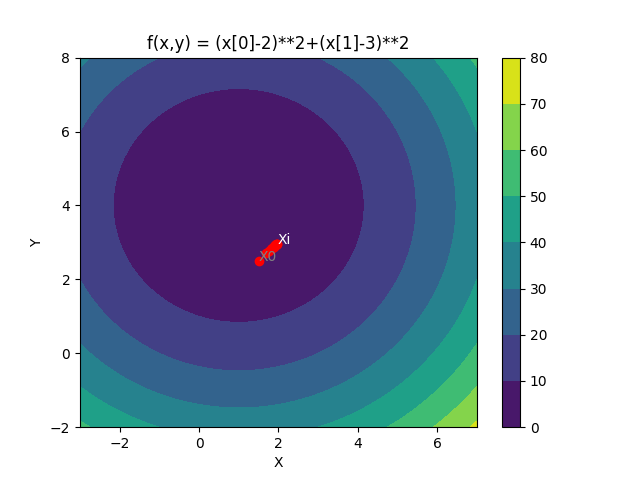
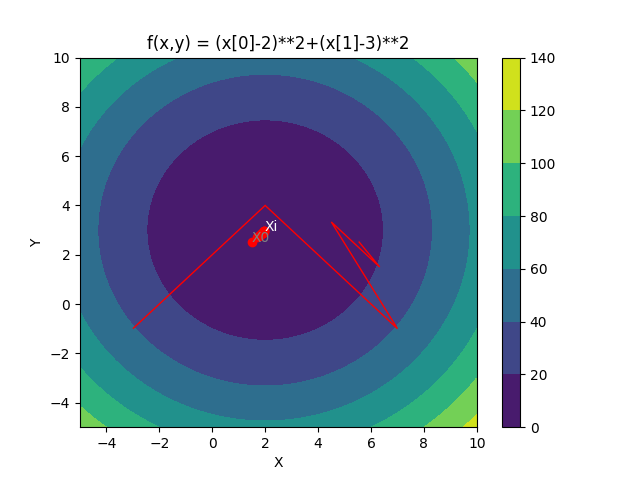
added shapes to chart

diff --git a/main.py b/main.py
@@ -53,12 +53,20 @@ def assign_values_in_point(f_variables, x0):
 
 def rysujWykres(punkty):
 
-    x_interval = (1, 1)
-    y_interval = (1, 1)
-
-    x_points = np.linspace(-3, 7, 100)
-    y_points = np.linspace(-2, 8, 100)
+    x_points = np.linspace(-5, 10, 100)
+    y_points = np.linspace(-5, 10, 100)
     X, Y = np.meshgrid(x_points, y_points)
+
+    if values["-STOP-"][0] == "Koło":
+        circle = plt.Circle((2, 3), 5, color="r", fill=False)
+        plt.gca().add_patch(circle)
+    if values["-STOP-"][0] == "Kwadrat":
+        rectangle = plt.Rectangle((-3, -2), 10, 10, edgecolor='r', fill=None)
+        plt.gca().add_patch(rectangle)
+    if values["-STOP-"][0] == "Półkole":
+        points = [[-3, -1], [2, 4], [7, -1], [4.5, 2.5*math.sqrt(3)-1], [2.5*math.sqrt(3)+2, 1.5], [2.5*math.sqrt(2)+2, 2.5*math.sqrt(2)-1]]
+        semicircle = plt.Polygon(points, closed=None, fill=None, edgecolor='r')
+        plt.gca().add_patch(semicircle)
 
     func3d_vectorized = []
     for point_x in x_points:
